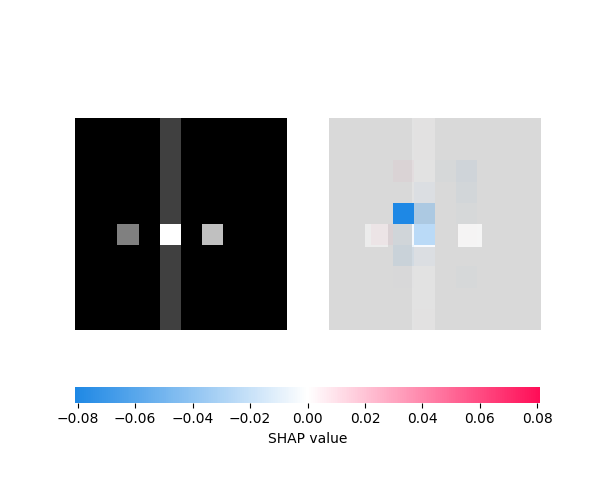
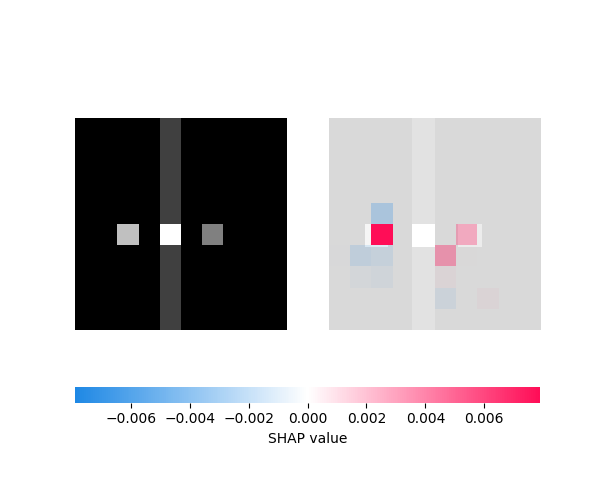
feat:gui

diff --git a/gui/src/utils/model_handler.py b/gui/src/utils/model_handler.py
@@ -1,4 +1,6 @@
 import logging
+import os
+import torch.nn as nn
 
 import gymnasium as gym
 import matplotlib.pyplot as plt
@@ -6,11 +8,12 @@ import numpy as np
 import torch
 
 from environments.gymnasium.wrappers import MultiAgentEnv
+from managers.src.wandb_manager import WandBConfig
 from methods import Shap
+from methods.src.cav import CAV
 from rl.src.common.getter import get_torch_from_numpy
 from rl.src.dqn.common.q_values_map import get_q_values_map
 from rl.src.dqn.wrapper import MultiAgentDQN
-from managers.src.wandb_manager import WandBConfig
 
 
 class ModelHandler:
@@ -29,7 +32,47 @@ class ModelHandler:
             self.wandb_config, self.model_name, model_artifact, version_numbers
         )
         self.shap_samples = shap_samples
+
+        positive_samples = "random"
+        negative_samples = "negative_samples"
+        self._save_path_cav = "gui/data/cav/"
+
+        self._cav = CAV(self._model, positive_samples, negative_samples)
+        self._cavs = self._load_cavs(self._save_path_cav)
+
+        self.tcav_scores = self._tcav_scores(self._cavs)
+
         self.load_model(shap_samples)
+
+    def _tcav_scores(self, cavs: dict) -> dict:
+        for layer, cav in cavs.items():
+            tcav_scores = {}
+            for key, value in cav.items():
+                tcav_scores[key] = self._cav.tcav_score(value)
+                return tcav_scores
+
+    def _save_cavs(self, path: str):
+        if not os.path.exists(path):
+            os.makedirs(path)
+
+        for name, cav in self._cavs.items():
+            for key, value in cav.items():
+                np.save(f"{path}/{name}_{key}.npy", value)
+
+    def _load_cavs(self, path: str) -> dict:
+        cavs = {}
+        for name in os.listdir(path):
+            cav = {}
+            for key in os.listdir(f"{path}/{name}"):
+                cav[key] = np.load(f"{path}/{name}/{key}")
+                self._cavs[name] = cav
+        return cavs
+
+    @property
+    def _model(
+        self,
+    ) -> nn.Module:
+        return self.dqn.agents[0].policy_net
 
     def load_dqn(
         self,

diff --git a/gui/src/components/result_frame.py b/gui/src/components/result_frame.py
@@ -13,11 +13,22 @@ class ResultFrame(ctk.CTkFrame):
         self.result_viewer_frame = ResultViewerFrame(self)
         self.result_viewer_frame.grid(row=1, column=0, padx=10, pady=10, sticky="nswe")
 
+        self.result_info_frame = ResultInfoFrame(self)
+        self.result_info_frame.grid(row=0, column=1, padx=10, pady=10, sticky="nswe")
+
     def update_result(
         self,
         q_values: bool,
     ):
         self.result_viewer_frame.update_result(q_values)
+
+
+class ResultInfoFrame(ctk.CTkFrame):
+    def __init__(self, master: ctk.CTkFrame | ctk.CTk):
+        super().__init__(master)
+        self.grid_columnconfigure((0, 1), weight=1)
+        self.grid_rowconfigure((0, 1), weight=1)
+        self.concept_viewer_frame = ConceptViewerFrame(self)
 
 
 class ResultViewerFrame(ctk.CTkFrame):
@@ -43,6 +54,16 @@ class ResultViewerFrame(ctk.CTkFrame):
         else:
             self.q_values_viewer_frame.grid_forget()
         self.shap_viewer_frame.update_image()
+
+
+class ConceptViewerFrame(ctk.CTkFrame):
+    def __init__(self, master: ctk.CTkFrame | ctk.CTk):
+        super().__init__(master)
+        self.grid_columnconfigure((0, 1), weight=1)
+        self.grid_rowconfigure((0, 1), weight=1)
+
+    def update_concept(self):
+        pass
 
 
 class DoubleViewerFrame(ctk.CTkFrame):

diff --git a/gui/src/app.py b/gui/src/app.py
@@ -3,6 +3,7 @@ import numpy as np
 
 from .components import ConfigurationFrame, ResultFrame
 from .utils import EnvHandler, ModelHandler
+from methods.src.cav import CAV
 
 
 class App(customtkinter.CTk):
@@ -20,6 +21,12 @@ class App(customtkinter.CTk):
         self.env_handler.generate()
 
         self.model_handler = ModelHandler("model_20", ["v0", "v1"], shap_samples=10)
+        self.cav = CAV(
+            self.model_handler.dqn,
+            "data/positive_samples.npy",
+            "data/negative_samples.npy",
+        )
+
         state = np.expand_dims(np.array(self.env_handler.env), axis=0)
         self.model_handler.generate_shap(state)
         self.result_frame = ResultFrame(self)
